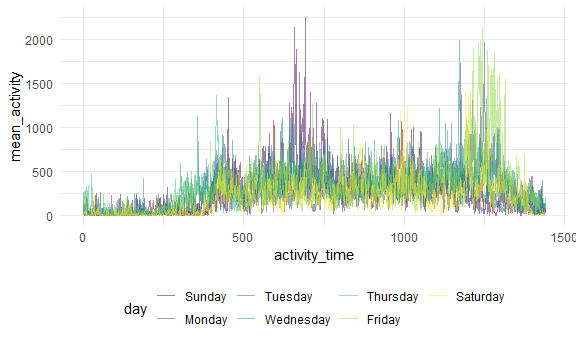
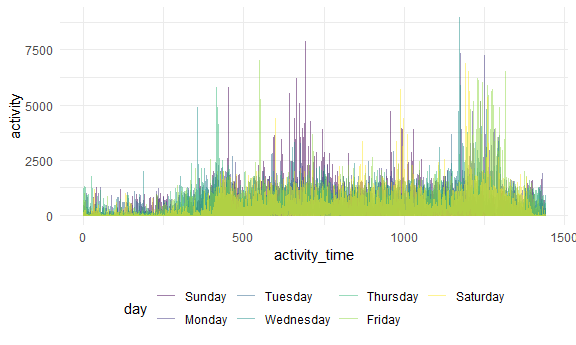
Some adjustments on Problem 3 Q2 and Q3

diff --git a/p8105_hw3_zl3119.md b/p8105_hw3_zl3119.md
@@ -402,7 +402,20 @@ accel_sum %>%
 |     34 |    5 | Tuesday   | Weekday     |    367824.00 |
 |     35 |    5 | Wednesday | Weekday     |    445366.00 |
 
-Draw a Barplot groupby day
+``` r
+accel_sum %>% 
+  mutate(day = factor(day, levels = c('Sunday', 'Monday', 'Tuesday', 'Wednesday', 'Thursday','Friday', 'Saturday'))) %>%
+  ggplot() +
+  geom_bar(aes(x = day_id, y = activity_sum, fill = day),stat="identity")
+```
+
+<img src="p8105_hw3_zl3119_files/figure-gfm/unnamed-chunk-12-1.png" width="95%" />
+The man is relatively not active in the end of the study. In addition,
+perhaps he did not wear the device on the first Monday and the last two
+Saturday.
+
+Draw a Barplot groupby day (Monday:Sunday) to show if there is
+difference between workdays and weekends
 
 ``` r
 accel_sum %>% 
@@ -413,7 +426,7 @@ accel_sum %>%
   geom_bar(aes(x = day, y = activitysum_mean, fill = day),stat="identity",show.legend = FALSE)
 ```
 
-<img src="p8105_hw3_zl3119_files/figure-gfm/unnamed-chunk-12-1.png" width="95%" />
+<img src="p8105_hw3_zl3119_files/figure-gfm/unnamed-chunk-13-1.png" width="95%" />
 
 We can see from the table and the barplot that. The activity sum is high
 on Wednesday, Thursday and Friday, low in Saturday.
@@ -442,11 +455,14 @@ accel_longer %>%
   geom_line(alpha = 0.5) 
 ```
 
-<img src="p8105_hw3_zl3119_files/figure-gfm/unnamed-chunk-13-1.png" width="95%" />
+<img src="p8105_hw3_zl3119_files/figure-gfm/unnamed-chunk-14-1.png" width="95%" />
 
 In Sunday, the man is active in the mid of the day; In Friday, Saturday
-and Sunday, the man is active in the end of the day. In addition, he is
-not active from 0 to 300, this is probabaly his regular sleeping hours.
+and Sunday, the man is active in the end of the day.
+
+In addition, he is not active from 0 to 300, this is probabaly his
+regular sleeping hours. By contrast, he is active from 1200 to 1300,
+this could be his recreation time before sleep.
 
 Also we can make a groupby-day plot to show day contrast (Monday:Sunday)
 more clearly
@@ -459,4 +475,7 @@ accel_longer %>%
   geom_line(alpha = 0.5) 
 ```
 
-<img src="p8105_hw3_zl3119_files/figure-gfm/unnamed-chunk-14-1.png" width="95%" />
+<img src="p8105_hw3_zl3119_files/figure-gfm/unnamed-chunk-15-1.png" width="95%" />
+
+From this plot, we have similar results execept that there is no zero
+activity between 450 to 1250,
